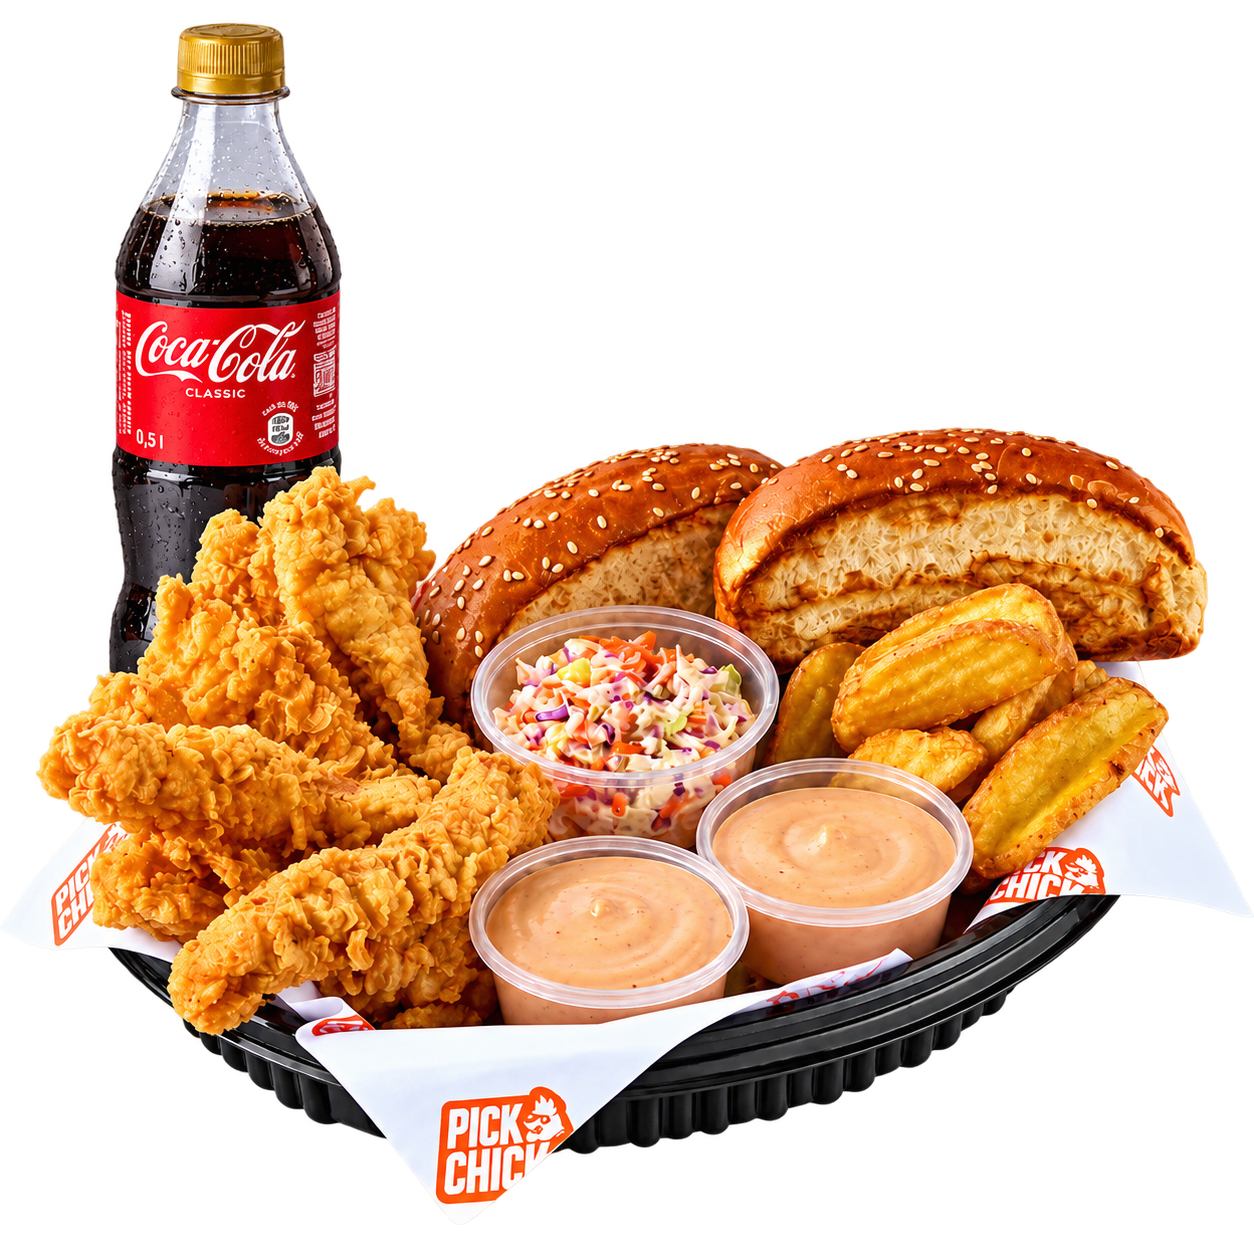
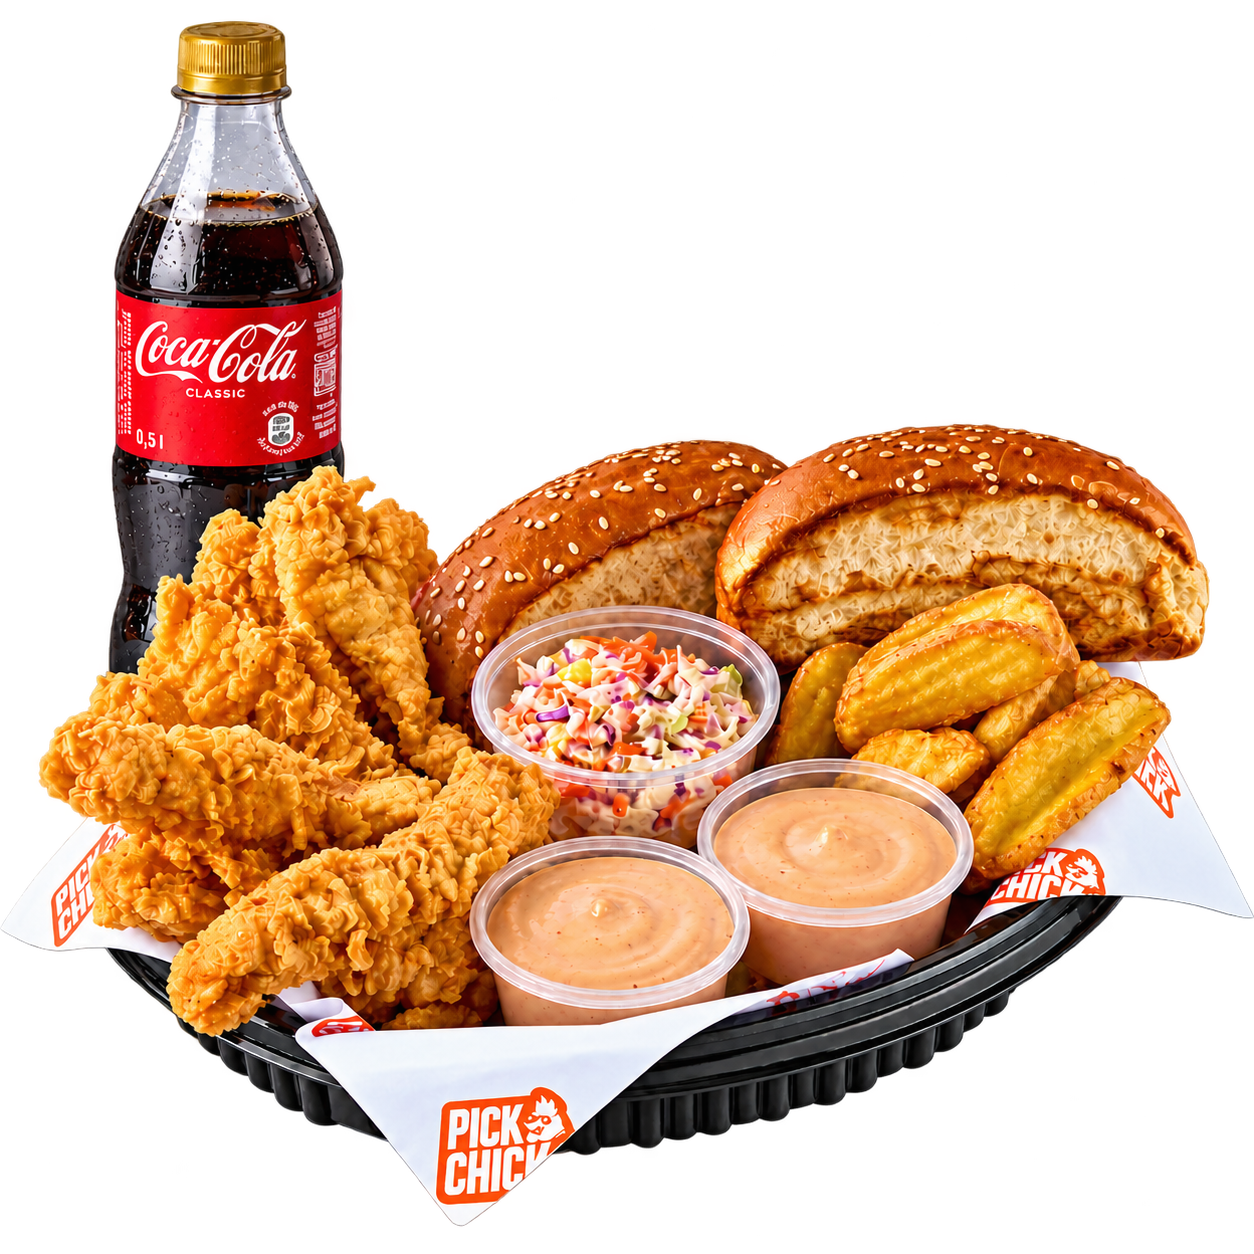
Enlarge Pick Combo photography and use high resolution hero rendition

diff --git a/apps/kiosk/src/components/ProductCard.tsx b/apps/kiosk/src/components/ProductCard.tsx
@@ -7,7 +7,13 @@ import { money } from '../cart';
 import type { KioskProduct } from '../model';
 import { copy, displayCopy, type Locale } from '../i18n';
 import { fitTitle, type BadgeKind, type CardSize } from '../menu-presentation';
-import { cardBackgroundRatio, cardBackgrounds, productArtworkId, productPhoto } from '../assets';
+import {
+  cardBackgroundRatio,
+  cardBackgrounds,
+  heroPhoto,
+  productArtworkId,
+  productPhoto,
+} from '../assets';
 import { colors, fonts, redesign, useMetrics } from '../theme';
 import { Badge } from './Badge';
 import { usePopIn, usePress, useTimingTo } from './motion';
@@ -72,7 +78,8 @@ export function ProductCard({
   const zoom = useTimingTo(pressed && !reduced ? 1 : 0, 500, 'ease');
   const ring = useTimingTo(pressed ? 1 : 0, 150, 'css');
   const imageId = productArtworkId(product);
-  const shot = productPhoto(imageId);
+  const largePick = product.id === 'pick-combo';
+  const shot = largePick ? heroPhoto(imageId) : productPhoto(imageId);
   // A published photo on a coloured backdrop keeps that backdrop instead of multiplying.
   const blend = !shot || lightTile(shot.tile);
   const unavailable = product.available === false;
@@ -114,9 +121,9 @@ export function ProductCard({
         minHeight: 0,
         overflow: 'hidden',
         backgroundColor: shot?.cutout ? 'transparent' : blend ? colors.white : shot?.tile,
-        paddingTop: px(wide ? 18 : 20),
-        paddingBottom: px(wide ? 18 : 4),
-        paddingHorizontal: px(wide ? 18 : 14),
+        paddingTop: px(largePick ? 4 : wide ? 18 : 20),
+        paddingBottom: px(largePick ? 0 : wide ? 18 : 4),
+        paddingHorizontal: px(largePick ? 6 : wide ? 18 : 14),
       }}
     >
       <Animated.View
@@ -127,7 +134,7 @@ export function ProductCard({
           transform: [{ scale: zoom.interpolate({ inputRange: [0, 1], outputRange: [1, 1.05] }) }],
         }}
       >
-        <PhotoImage imageId={imageId} />
+        <PhotoImage imageId={imageId} variant={largePick ? 'hero' : 'card'} />
       </Animated.View>
     </View>
   );

diff --git a/apps/kiosk/src/components/ComboHero.tsx b/apps/kiosk/src/components/ComboHero.tsx
@@ -6,7 +6,13 @@ import { copy, displayCopy, type Locale } from '../i18n';
 import { productCopy } from '../productCopy';
 import { fitTitle } from '../menu-presentation';
 import { compositionPills, productBadge, servingLine } from '../product-presentation';
-import { cardBackgroundRatio, cardBackgrounds, productArtworkId, productPhoto } from '../assets';
+import {
+  cardBackgroundRatio,
+  cardBackgrounds,
+  heroPhoto,
+  productArtworkId,
+  productPhoto,
+} from '../assets';
 import { colors, fonts, redesign, useMetrics } from '../theme';
 import { Badge } from './Badge';
 import { PhotoImage } from './PhotoImage';
@@ -43,7 +49,8 @@ export function ComboHero({
   const enter = useEnter(60, 520);
   const details = usePress(0.95);
   const imageId = productArtworkId(product);
-  const shot = productPhoto(imageId);
+  const largePick = product.id === 'pick-combo';
+  const shot = largePick ? heroPhoto(imageId) : productPhoto(imageId);
   // A published photo on a coloured backdrop keeps that backdrop instead of multiplying.
   const blend = !shot || lightTile(shot.tile);
   const badge = productBadge(product.id);
@@ -94,9 +101,9 @@ export function ComboHero({
         <View
           style={{
             width: `${PHOTO * 100}%`,
-            paddingVertical: px(24),
-            paddingLeft: px(28),
-            paddingRight: px(12),
+            paddingVertical: px(largePick ? 0 : 24),
+            paddingLeft: px(largePick ? 8 : 28),
+            paddingRight: px(largePick ? 8 : 12),
             // A direct layer of the clip, so its multiply sees the cream and the illustration
             // (every web view is its own stacking context).
             zIndex: 1,
@@ -111,7 +118,7 @@ export function ComboHero({
               backgroundColor: blend ? 'transparent' : (shot?.tile ?? redesign.cream),
             }}
           >
-            <PhotoImage imageId={imageId} />
+            <PhotoImage imageId={imageId} variant={largePick ? 'hero' : 'card'} />
           </View>
         </View>
         <View
